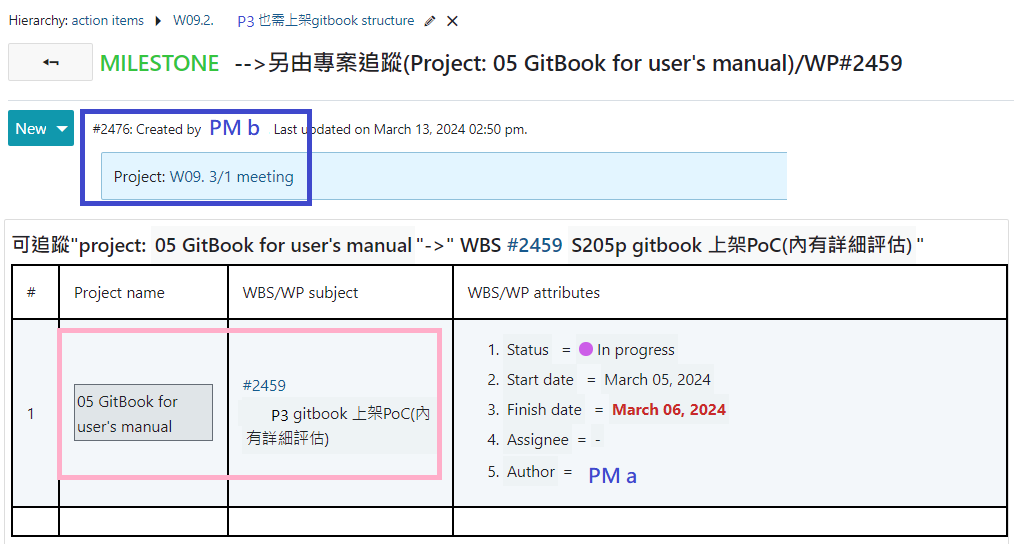
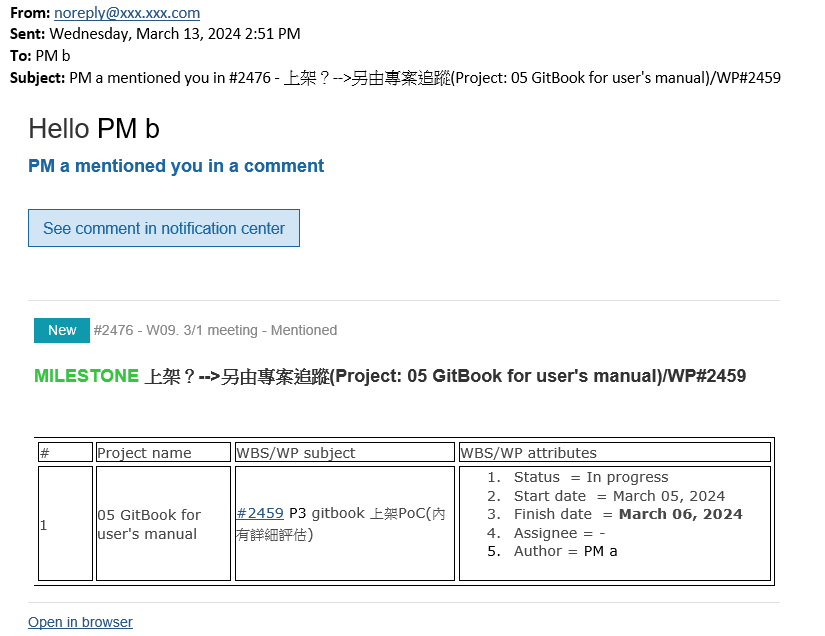
GITBOOK-118: No subject

Changed region(s): [[0.0, 0.4062, 1.0, 1.0], [0.0, 0.1875, 0.7879, 0.4062], [0.0, 0.0, 0.9394, 0.1562]]

diff --git a/te-bie-duo-zhuan-an-guan-li-de-yong-fa/pm-ke-fa-email-tong-zhi-cheng-yuan-referral-to-bu-tong-de-zhuan-an-wbs.md b/te-bie-duo-zhuan-an-guan-li-de-yong-fa/pm-ke-fa-email-tong-zhi-cheng-yuan-referral-to-bu-tong-de-zhuan-an-wbs.md
@@ -2,10 +2,11 @@
 
 <mark style="background-color:blue;">**PM a**</mark> 將referral 的最新資訊(copy/past)，以<mark style="background-color:green;">**@comment 通知其他專案成員**</mark>**(PM a, b, c**)。
 
+<figure><img src="../.gitbook/assets/image (4).png" alt=""><figcaption></figcaption></figure>
+
 {% hint style="info" %}
 系統同步也會發出email notification。[email-tong-zhi-she-ding-sui-xin-suo-yu.md](../fu-he-yi-ban-zhuan-an-guan-li-de-yong-fa/email-tong-zhi-she-ding-sui-xin-suo-yu.md "mention")
+
+![](<../.gitbook/assets/image (1).png>)
 {% endhint %}
 
-<figure><img src="../.gitbook/assets/image (2).png" alt=""><figcaption></figcaption></figure>
-
-<figure><img src="../.gitbook/assets/image (3).png" alt=""><figcaption></figcaption></figure>

diff --git a/open-source-project-platform-ling-lei-yong-fa/help-desk-xu-qiu-kai-dan-qa-ji-lu.md b/open-source-project-platform-ling-lei-yong-fa/help-desk-xu-qiu-kai-dan-qa-ji-lu.md
@@ -2,7 +2,7 @@
 
 ### 1. 目前有兩條closed服務 (#2320/<mark style="background-color:red;">#2321</mark>)，一條_新需求#2322_。
 
-<figure><img src="../.gitbook/assets/image (7).png" alt=""><figcaption></figcaption></figure>
+<figure><img src="../.gitbook/assets/image (7) (1).png" alt=""><figcaption></figcaption></figure>
 
 ### 2. _新需求#2322_ 與<mark style="background-color:red;">#2321</mark> 問題相同(發問者分別是 FAE  /  PM-a)
 
